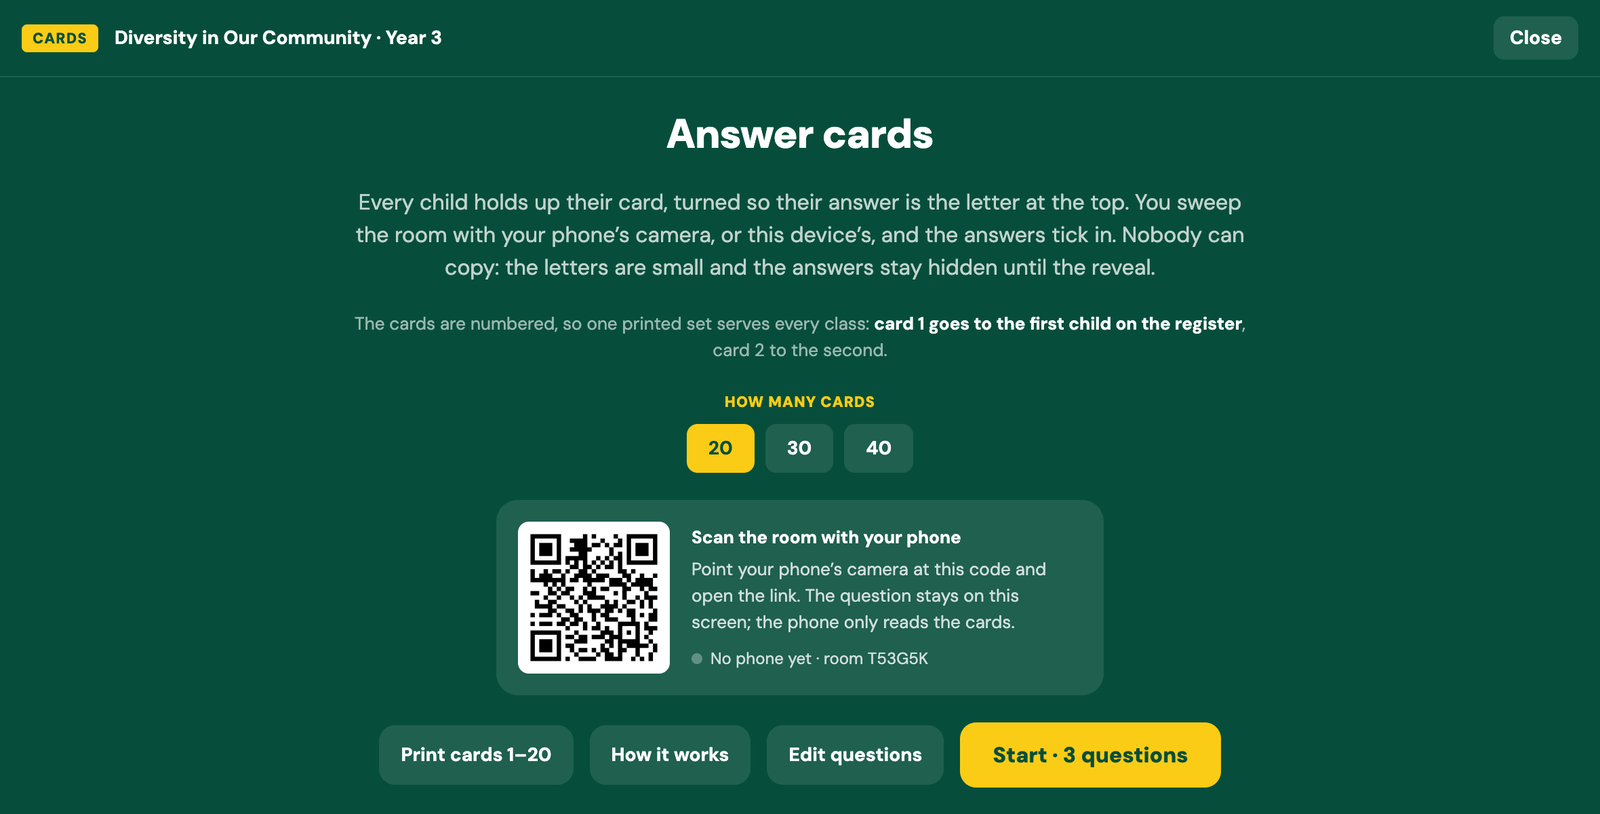
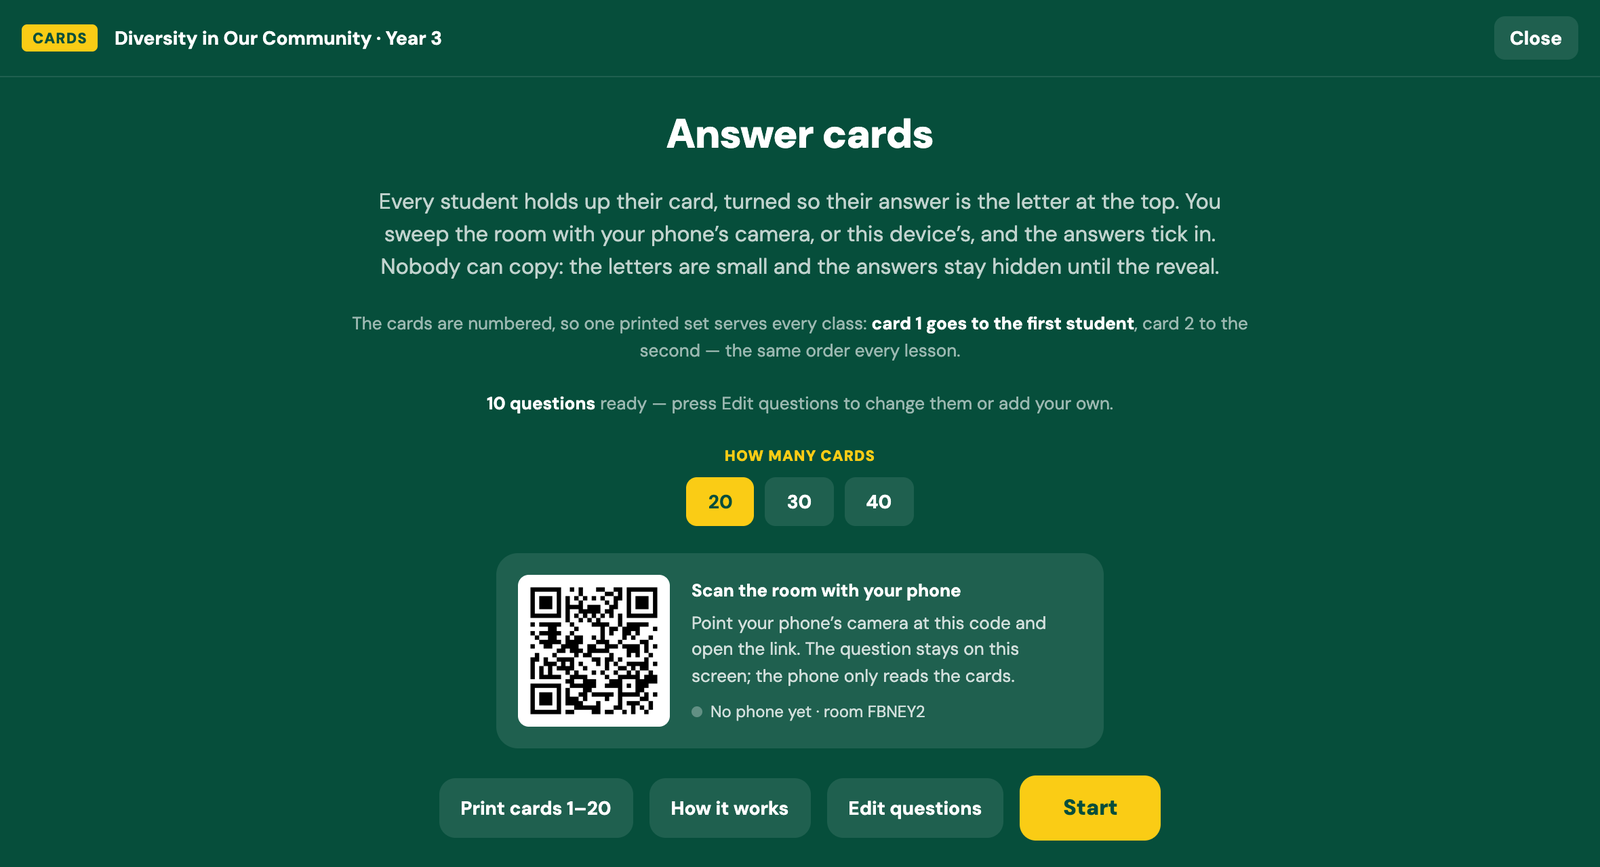
Say students, and drop the register from the cards
"Child" was the word throughout the cards — the game, the guide and the
printed sheet — and the order they go out in was explained by naming a
register that is not part of this app. Both now say what they mean:
students, and the same order every lesson.

What matters about the order is not which list it comes from but that it
does not change: card 1 has to reach the same student each time, or the
marks on the board belong to someone else. The guide's warning and its
troubleshooting entry say that instead.

The guide's picture of the opening screen is taken again, so it shows the
new wording — and, with it, the plain Start button.

diff --git a/src/components/AnswerCardsGuide.tsx b/src/components/AnswerCardsGuide.tsx
@@ -196,8 +196,8 @@ const SLIDES: { title: string; render: () => ReactNode }[] = [
           The whole class answers at once, on paper
         </h2>
         <p className="mx-auto max-w-2xl text-[clamp(1rem,1.6vw,1.2rem)] leading-relaxed text-white/75">
-          The lesson&rsquo;s own questions, one printed card per child, and your phone reads the
-          room — no pupil devices, no logins, nothing to collect in.
+          The lesson&rsquo;s own questions, one printed card per student, and your phone reads the
+          room — no student devices, no logins, nothing to collect in.
         </p>
         <p className="text-[13px] text-white/45">
           Arrow keys or the buttons below to move · Esc closes · Print gives you the whole deck
@@ -218,15 +218,16 @@ const SLIDES: { title: string; render: () => ReactNode }[] = [
                 lets the code be read from the back of the room, so there is nothing to cut out.
                 Card stock, or paper glued to card, lasts the year.
               </Step>
-              <Step n={2} lead="Hand them out in register order">
+              <Step n={2} lead="Hand them out in the same order every time">
                 The cards carry a number, not a name, so one printed set serves every class: card
-                1 goes to the first child on the register, card 2 to the second. Keep the spare
-                numbers for a new child or a lost card.
+                1 goes to the first student, card 2 to the second. Keep the spare numbers for a
+                new student or a lost card.
               </Step>
             </ol>
             <p className="rounded-r-xl border-l-2 border-[#FACC15] bg-white/5 px-4 py-3 text-[13.5px]">
-              The one thing to get right: if the cards go out in a different order from the
-              register, the marks on the board belong to the wrong children.
+              The one thing to get right: card 1 has to reach the same student every lesson. Hand
+              them out in a different order and the marks on the board belong to the wrong
+              students.
             </p>
           </div>
           <Shot
@@ -239,16 +240,16 @@ const SLIDES: { title: string; render: () => ReactNode }[] = [
     ),
   },
   {
-    title: "How a child answers",
+    title: "How a student answers",
     render: () => (
-      <Slide title="How a child answers" tag="turn, don't tick">
+      <Slide title="How a student answers" tag="turn, don't tick">
         <div className="flex h-full flex-col gap-5">
           <p className="max-w-3xl text-[15px] leading-relaxed text-white/75">
             All four letters are on every card, one to an edge.{" "}
             <b className="text-white">
               The answer is whichever letter is at the top, reading the right way up
             </b>{" "}
-            — so a child answers by turning the card, then holding it in the air. A card held a
+            — so a student answers by turning the card, then holding it in the air. A card held a
             little crookedly still reads.
           </p>
           <div className="flex flex-wrap items-center gap-8">
@@ -291,7 +292,7 @@ const SLIDES: { title: string; render: () => ReactNode }[] = [
             fills the screen with the game — put that on the projector.
           </Step>
           <Step n={2} lead="Choose how many cards are out">
-            20, 30 or 40 — enough to cover the register in front of you.
+            20, 30 or 40 — enough for the class in front of you.
           </Step>
           <Step n={3} lead="Link your phone, or use this device's camera">
             Point your phone&rsquo;s camera at the QR code and open the link. The dot turns yellow
@@ -303,7 +304,7 @@ const SLIDES: { title: string; render: () => ReactNode }[] = [
           </Step>
           <Step n={5} lead="Sweep the room">
             Walk the aisles slowly with the phone held up, a few rows at a time. Each card&rsquo;s
-            latest reading counts, so a child who changes their mind simply turns it again.
+            latest reading counts, so a student who changes their mind simply turns it again.
           </Step>
           <Step n={6} lead="Show the answer, then move on">
             The right option lights, the readings freeze, and your line is read out underneath.
@@ -330,7 +331,7 @@ const SLIDES: { title: string; render: () => ReactNode }[] = [
             <Point lead="The reveal freezes it">
               Whatever is showing when you press Show the answer is what is banked.
             </Point>
-            <Point lead="Nothing about the children is saved">
+            <Point lead="Nothing about the students is saved">
               Readings go from the camera to this screen and are gone; the marks live only while
               the game is open. Note the board before you close it if you want a record.
             </Point>
@@ -396,8 +397,8 @@ const SLIDES: { title: string; render: () => ReactNode }[] = [
               "Hold it higher, flat and still, with no fingers over the code; stand a metre or two closer; turn away from a light reflecting off the paper. A creased card reads badly — swap it for a spare.",
             ],
             [
-              "The marks are against the wrong children",
-              "The cards are out of register order. Check card 1 is with the first child on the register.",
+              "The marks are against the wrong students",
+              "The cards went out in a different order this lesson. Check card 1 is with the student it belongs to, and the rest follow in number order.",
             ],
             [
               "The phone will not connect",
@@ -408,7 +409,7 @@ const SLIDES: { title: string; render: () => ReactNode }[] = [
               "Press Start: a short quiz is filled out to ten from the lesson plan the first time, with your own questions kept in front. After that the set is yours — press Edit questions to add more.",
             ],
             [
-              "Children can see each other's answers",
+              "Students can see each other's answers",
               "Ask for cards held high and flat rather than tilted towards a neighbour. The count in the bar tells you everyone has answered without anyone's answer being on show.",
             ],
           ].map(([problem, fix]) => (
@@ -430,7 +431,7 @@ const SLIDES: { title: string; render: () => ReactNode }[] = [
         </h2>
         <ol className="space-y-4 text-left">
           {[
-            "Print the set once and hand it out in register order.",
+            "Print the set once and hand it out in the same order every time.",
             "Read the question; the class turns the card so their letter is at the top.",
             "Sweep the room, show the answer, move on.",
           ].map((line, i) => (

diff --git a/src/lib/answerCards.ts b/src/lib/answerCards.ts
@@ -1,7 +1,7 @@
 /* ═══════════════ Answer cards the whole class can hold up ═════════════
-   One printed card per child. A QR code in the middle says which child it
+   One printed card per student. A QR code in the middle says which student it
    is; the four edges are lettered A, B, C and D, and the letter that ends
-   up at the top is the answer. A child turns the card rather than owning a
+   up at the top is the answer. A student turns the card rather than owning a
    device, and one camera reads the whole room.
 
    The letters are laid out so that exactly one of them reads the right way
@@ -70,8 +70,8 @@ export type CardSheetMeta = {
 
 /**
  * The printable sheet. The cards carry a number and nobody's name, so one set
- * serves every class: card 3 is the third child on whichever register is
- * open, and the screen shows that child's name when the card is read.
+ * serves every class: card 3 is the third student in whichever class is
+ * playing, and the screen counts that number in as the card is read.
  */
 export async function buildCardsHtml(count: number, meta: CardSheetMeta): Promise<string> {
   const numbers = Array.from({ length: count }, (_, i) => i + 1);
@@ -163,10 +163,10 @@ export async function buildCardsHtml(count: number, meta: CardSheetMeta): Promis
   </header>
   <div class="how">
     <b>How they work.</b> One card to a sheet of A4, so a phone can read it across the
-    room &mdash; no cutting. <b>Card 1 goes to the first child
-    on the register, card 2 to the second</b>, and so on — the same cards work for every
-    class, and the screen shows each child's name when their card is read. To answer, a
-    child turns the card so that <b>the letter they want is at the top, reading the right way
+    room &mdash; no cutting. <b>Card 1 goes to the first student, card 2 to the
+    second</b>, and so on — the same cards work for every class, as long as they go out in
+    the same order each lesson. To answer, a student turns the card so that <b>the letter
+    they want is at the top, reading the right way
     up</b>, then holds it in the air. Card stock, or a glued-on piece of card, lasts the year.
   </div>
   <div class="sheet">${cards}</div>
@@ -177,7 +177,7 @@ export async function buildCardsHtml(count: number, meta: CardSheetMeta): Promis
 /* ─────────────────── Reading a frame full of cards ───────────────────
    A QR reader finds one code per image and a classroom holds twenty, so the
    frame is read whole and then in nine overlapping tiles. The whole-frame
-   pass is for a phone held close to one child, where a single card fills the
+   pass is for a phone held close to one student, where a single card fills the
    picture and every tile would see only part of it. Shared by the class
    screen's own camera and the phone, so both read a room the same way. */
 export function readCardsInFrame(

diff --git a/src/components/AnswerCardsGame.tsx b/src/components/AnswerCardsGame.tsx
@@ -1,5 +1,5 @@
 /* ══════════════ The whole class answers at once ══════════════════════
-   Every child holds up a printed card, turned so their answer is the letter
+   Every student holds up a printed card, turned so their answer is the letter
    at the top. One camera reads the room: the teacher's phone, or this
    device's own camera if no phone joins. Nobody needs a device but the
    teacher, and nobody can copy — the letters are small and the answers stay
@@ -273,7 +273,7 @@ export default function AnswerCardsGame({
           const found: Record<number, number> = {};
           for (const [k, letter] of Object.entries(readCardsInFrame(ctx, w, h, jsQR)))
             if (Number(k) <= classSize) found[Number(k)] = letter;
-          // A child may turn the card again; the latest reading is the answer.
+          // A student may turn the card again; the latest reading is the answer.
           if (Object.keys(found).length && phaseRef.current === "asking")
             setAnswers((a) => ({ ...a, ...found }));
         }
@@ -361,7 +361,7 @@ export default function AnswerCardsGame({
           <div className="mx-auto w-full max-w-2xl space-y-5 text-center">
             <h2 className="text-3xl font-black">Answer cards</h2>
             <p className="text-white/75">
-              Every child holds up their card, turned so their answer is the
+              Every student holds up their card, turned so their answer is the
               letter at the top. You sweep the room with your phone&rsquo;s
               camera, or this device&rsquo;s, and the answers tick in. Nobody
               can copy: the letters are small and the answers stay hidden until
@@ -369,8 +369,8 @@ export default function AnswerCardsGame({
             </p>
             <p className="text-[13px] text-white/60">
               The cards are numbered, so one printed set serves every class:{" "}
-              <b className="text-white">card 1 goes to the first child on the register</b>, card 2
-              to the second.
+              <b className="text-white">card 1 goes to the first student</b>, card 2 to the
+              second — the same order every lesson.
             </p>
 
             {/* What Start is going to do, said before it is pressed. */}
